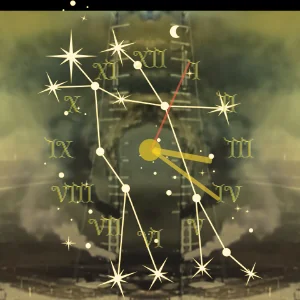
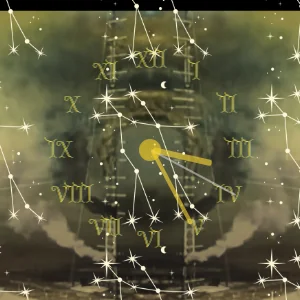
m

diff --git a/src/pages/2026/26-07/26-07-26/Clock.module.css b/src/pages/2026/26-07/26-07-26/Clock.module.css
@@ -43,10 +43,10 @@
   width: 100%;
   height: 100%;
   background-image: var(--gem-image);
-  background-size: 300px;
+  background-size: 55vh;
   background-repeat: repeat;
   background-position: center;
-  z-index: 2;
+  z-index: 8;
   filter: invert(1);
 }
 
@@ -93,7 +93,7 @@
 
 .hourHand { width: 6px; height: 25%; }
 .minuteHand { width: 4px; height: 35%; }
-.secondHand { width: 2px; height: 40%; background-color: #ff6347; }
+.secondHand { width: 2px; height: 40%; background-color: #cfcbca; }
 
 .centerDot {
   position: absolute;
